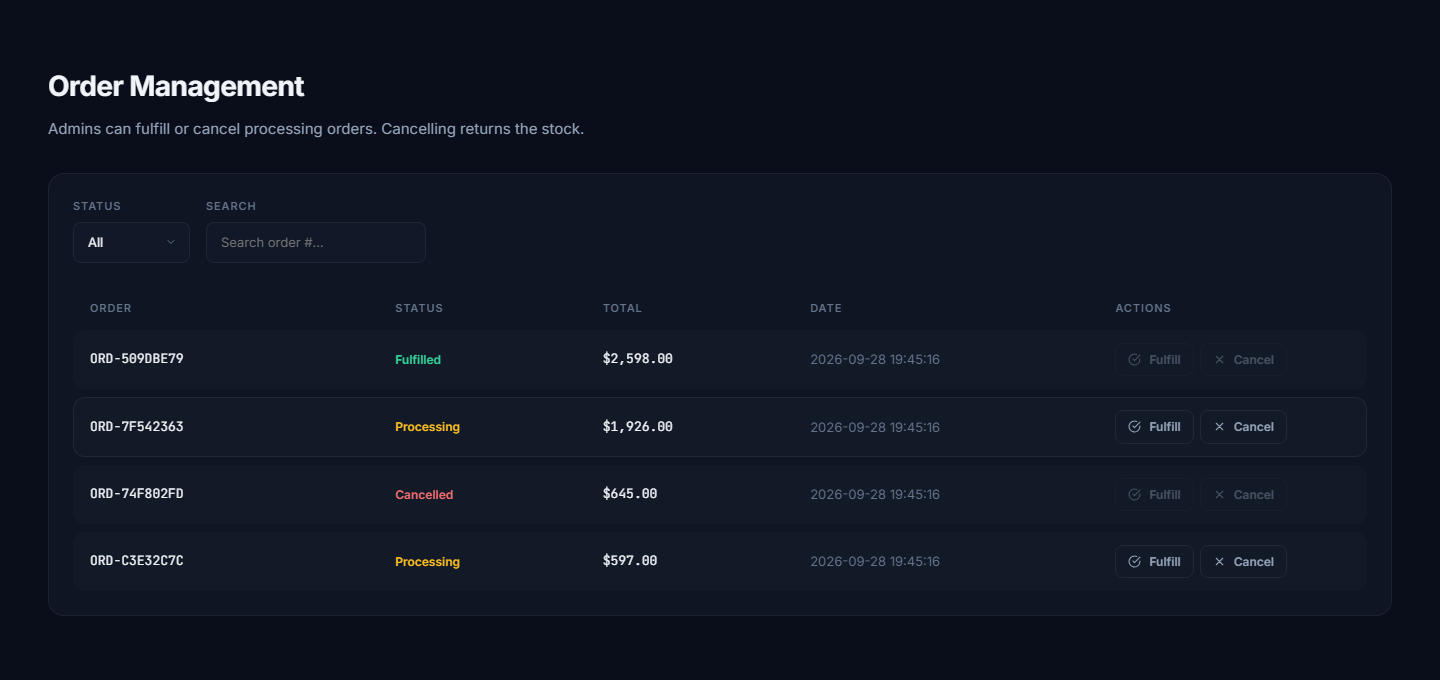
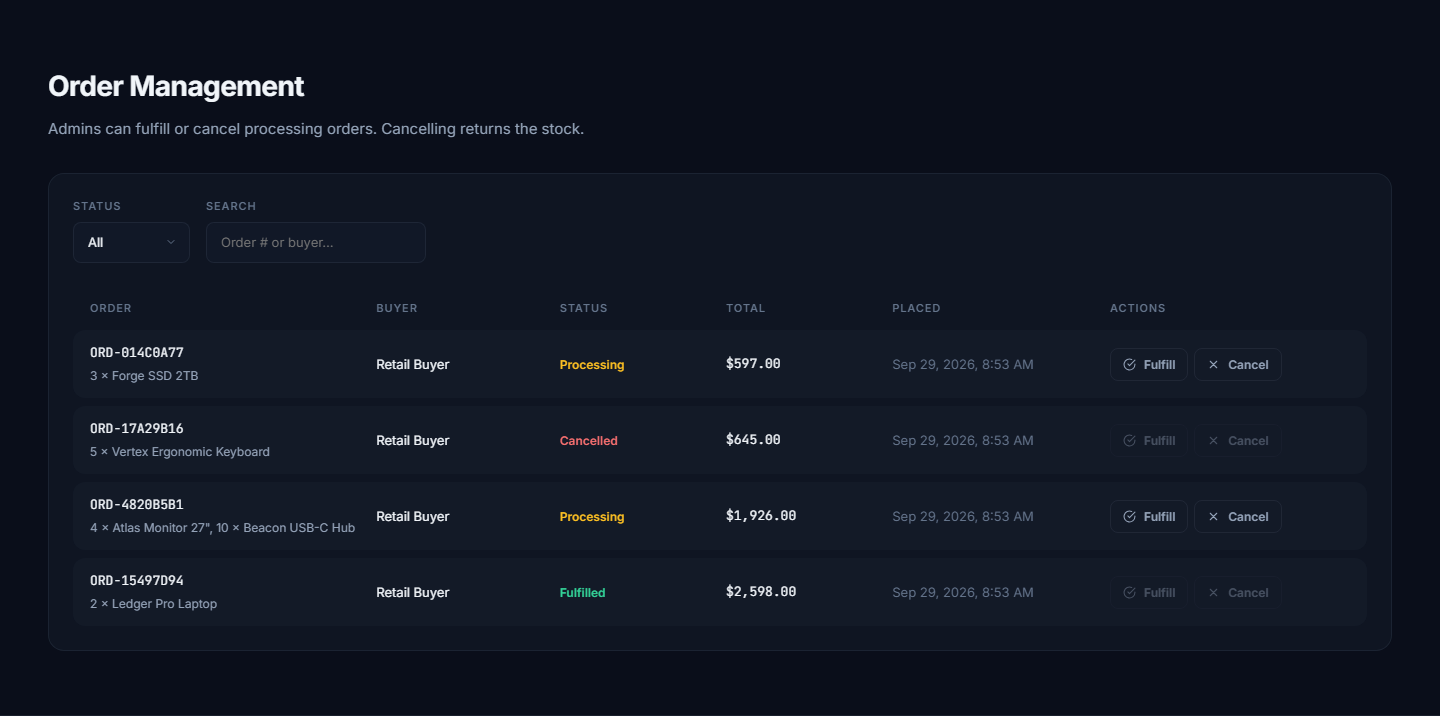
docs: document round-two API changes and retake screenshots
README now covers inactive products (409), case-insensitive login,
per-request role lookup, admin orders with buyer and items, the 429
login limit, the new frontend modules and tests, Node 22+, and the
Dependabot grouping. Screenshots retaken from a local run.

diff --git a/README.md b/README.md
@@ -19,10 +19,10 @@ The demo database is recreated and seeded every time the API restarts (deploys, 
 
 ## What it does
 
-- **Catalog**: public list of active products, with category, search, price filters and sorting in the UI
+- **Catalog**: public list of active products, with category, search, price filters and sorting in the UI. Inactive products cannot be ordered, even by id
 - **Checkout**: the client sends product IDs and quantities only. The server reads prices from the database, checks stock, and writes the order, its line items and the stock decrement in one SQLite transaction. If any line fails, nothing is written
-- **My orders**: a signed-in buyer sees their own orders and line items
-- **Roles**: `requireRole('admin')` guards product creation, the full order list and status changes, so a buyer token gets a 403. Hiding admin screens in the UI is not what protects them
+- **My orders**: a signed-in buyer sees their own orders and line items. Admins see every order with its buyer and line items
+- **Roles**: `requireRole('admin')` guards product creation, the full order list and status changes, so a buyer token gets a 403. The role is read from the database on every request, so demoting or deleting a user takes effect immediately. Hiding admin screens in the UI is not what protects them
 - **Order status**: `processing` can move to `fulfilled` or `cancelled`, and both are final. Any other transition is a 409. Cancelling puts the reserved stock back in the same transaction
 
 ## Architecture
@@ -37,7 +37,9 @@ React 19 + Vite (Vercel) ──HTTPS/JSON──► Express 4 API (Render) ──
 | `backend/src/config.js` | CORS origin and `trust proxy` parsing |
 | `backend/src/db.js` | Schema (foreign keys, CHECK constraints) and seed data |
 | `frontend/src/api.js` | `fetchJson` helper: base URL, headers, `{ error }` handling |
-| `frontend/src/App.jsx` | Catalog, cart, checkout and orders UI |
+| `frontend/src/format.js`, `session.js` | Date/currency formatting, guarded `localStorage` access |
+| `frontend/src/App.jsx` | App state and API calls |
+| `frontend/src/components/` | Page sections (catalog, cart, orders, …) and the sign-in and checkout modals |
 
 ## API
 
@@ -46,13 +48,13 @@ Request and response bodies are JSON. Errors are always `{ "error": "message" }`
 | Method | Path | Auth | Notes |
 |---|---|---|---|
 | GET | `/api/health` | none | `{ "status": "ok" }` |
-| POST | `/api/auth/login` | none | `{ email, password }` returns `{ token, user }`. Rate limited to 20/min per client |
+| POST | `/api/auth/login` | none | `{ email, password }` returns `{ token, user }`. Email is case-insensitive. Rate limited to 20/min per client |
 | GET | `/api/products` | none | Active products |
 | POST | `/api/products` | admin | Create a product |
 | POST | `/api/orders` | any user | `{ items: [{ product_id, quantity }], shipping: { name, address, city, country }, payment_method? }` |
 | GET | `/api/orders/mine` | any user | The caller's orders, each with its `items` |
-| GET | `/api/orders` | admin | All orders |
-| PATCH | `/api/orders/:id` | admin | `{ status }`, `fulfilled` or `cancelled` |
+| GET | `/api/orders` | admin | All orders, each with `buyer_name` and `items` |
+| PATCH | `/api/orders/:id` | admin | `{ status }`, `fulfilled` or `cancelled`; returns the updated order in the same shape |
 
 ## Validation and errors
 
@@ -60,12 +62,13 @@ Request and response bodies are JSON. Errors are always `{ "error": "message" }`
 |---|---|
 | Malformed JSON body, missing or wrong-typed fields (login, orders, products) | 400 |
 | Unknown product, bad quantity (not a whole number from 1 to 999), more than 50 lines, missing shipping fields, unknown payment method | 400 |
-| Missing, malformed, expired or wrongly signed token, or a scheme other than `Bearer` | 401 |
-| Buyer calling an admin route | 403 |
+| Missing, malformed, expired or wrongly signed token, a scheme other than `Bearer`, or a token for a deleted user | 401 |
+| Buyer (or demoted admin) calling an admin route | 403 |
 | Request from a browser origin that is not allowed | 403 |
 | Unknown route, status change on a missing order | 404 |
-| Not enough stock, duplicate SKU, status change that is not allowed | 409 |
+| Not enough stock, inactive product, duplicate SKU, status change that is not allowed | 409 |
 | Body over 200 KB | 413 |
+| More than 20 login attempts in a minute from one client | 429 |
 | Anything unexpected | 500 with a generic message; details are only logged server-side |
 
 ## Running it locally
@@ -104,7 +107,7 @@ cd frontend && npm test && npm run lint
 
 The backend node:test suite starts the API against a throwaway SQLite file and covers:
 
-- RBAC on every admin route, and buyers only seeing their own orders
+- RBAC on every admin route, roles re-read on each request (a demoted or deleted user loses access), and buyers only seeing their own orders
 - totals computed from server prices, even when the client sends a price
 - an order that exceeds stock is rejected and leaves orders and inventory untouched
 - the order status rules, including stock being restored once on cancel
@@ -112,15 +115,15 @@ The backend node:test suite starts the API against a throwaway SQLite file and c
 - CORS and `trust proxy` configuration
 - the schema: seeding an empty database, foreign keys, CHECK constraints, and booting on a database created with the older schema
 
-The frontend has vitest tests for the `fetchJson` helper: headers are merged so `Content-Type` survives an `Authorization` header, and server error messages reach the UI.
+The frontend has vitest tests for the `fetchJson` helper (headers are merged so `Content-Type` survives an `Authorization` header, and server error messages reach the UI), for SQLite UTC timestamps being shown in local time, and for a corrupt or blocked `localStorage` leaving the user signed out instead of crashing the page.
 
-CI runs the backend suite with coverage on Node 22 and 24, plus the frontend lint, tests and build. Dependabot opens weekly updates for both packages and the workflow actions.
+CI runs the backend suite with coverage on Node 22 and 24, plus the frontend lint, tests and build. Dependabot opens weekly grouped minor/patch updates for both packages and the workflow actions; majors that need a deliberate migration (Express 5, ESLint 10, dotenv) are ignored.
 
 ## Security notes
 
 - All queries are prepared statements with `?` placeholders.
 - Passwords are bcrypt hashes and are never returned. Login for an unknown email still runs a bcrypt comparison against a dummy hash, so it takes about as long as a wrong password.
-- JWTs are signed and verified with HS256 only and expire after 8 hours.
+- JWTs are signed and verified with HS256 only and expire after 8 hours. The token only identifies the user; name and role come from the database on each request.
 - `helmet` sets the default security headers. JSON bodies are capped at 200 KB. Login is limited to 20 attempts per minute per client IP; `trust proxy` makes that work behind Render's proxy.
 - With `NODE_ENV=production`, the server exits at startup if `JWT_SECRET` is missing or still the development default, and localhost origins are rejected.
 - The frontend keeps the token in `localStorage`. That keeps the demo simple, but any XSS on the page could read it. A production build would use an `HttpOnly`, `SameSite` cookie with CSRF protection instead.
